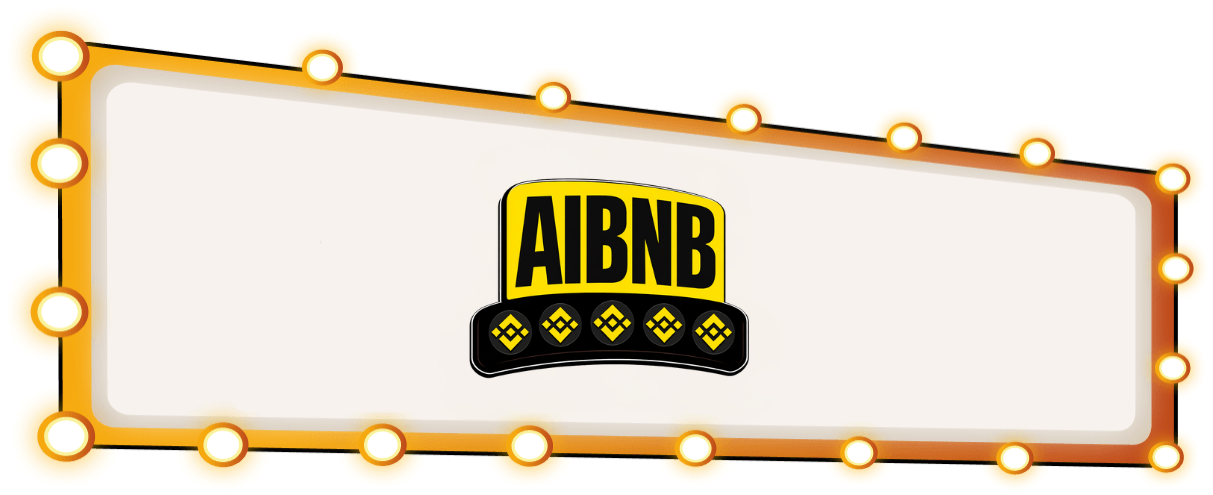
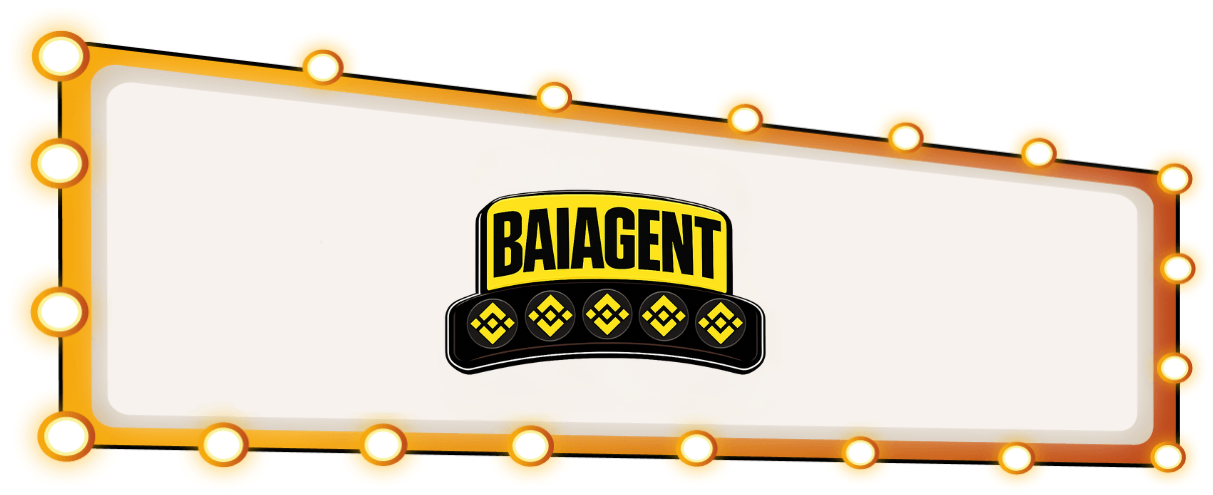
update

diff --git a/index.html b/index.html
@@ -1,7 +1,7 @@
 <!DOCTYPE html>
 <html lang="en">
   <head>
-    <title>AI BNB | $AIBNB</title>
+    <title>Binance AI Agent | $BAIAGENT</title>
     <meta charset="UTF-8" />
     <meta name="format-detection" content="telephone=no" />
     <style>
@@ -130,47 +130,47 @@
         <div class="run-row-text">
           <div class="run-row-text__line">
             <div class="run-row-text__row">
-              <p class="run-row-text__text">Welcome to the AIBNB</p>
+              <p class="run-row-text__text">Welcome to the BAIAGENT</p>
               <p class="run-row-text__text run-row-text__text--white">
-                Welcome to the AIBNB
+                Welcome to the BAIAGENT
               </p>
-              <p class="run-row-text__text">Welcome to the AIBNB</p>
+              <p class="run-row-text__text">Welcome to the BAIAGENT</p>
               <p class="run-row-text__text run-row-text__text--white">
-                Welcome to the AIBNB
+                Welcome to the BAIAGENT
               </p>
-              <p class="run-row-text__text">Welcome to the AIBNB</p>
+              <p class="run-row-text__text">Welcome to the BAIAGENT</p>
               <p class="run-row-text__text run-row-text__text--white">
-                Welcome to the AIBNB
+                Welcome to the BAIAGENT
               </p>
-              <p class="run-row-text__text">Welcome to the AIBNB</p>
+              <p class="run-row-text__text">Welcome to the BAIAGENT</p>
               <p class="run-row-text__text run-row-text__text--white">
-                Welcome to the AIBNB
+                Welcome to the BAIAGENT
               </p>
-              <p class="run-row-text__text">Welcome to the AIBNB</p>
+              <p class="run-row-text__text">Welcome to the BAIAGENT</p>
               <p class="run-row-text__text run-row-text__text--white">
-                Welcome to the AIBNB
+                Welcome to the BAIAGENT
               </p>
             </div>
             <div class="run-row-text__row">
-              <p class="run-row-text__text">Welcome to the AIBNB</p>
+              <p class="run-row-text__text">Welcome to the BAIAGENT</p>
               <p class="run-row-text__text run-row-text__text--white">
-                Welcome to the AIBNB
+                Welcome to the BAIAGENT
               </p>
-              <p class="run-row-text__text">Welcome to the AIBNB</p>
+              <p class="run-row-text__text">Welcome to the BAIAGENT</p>
               <p class="run-row-text__text run-row-text__text--white">
-                Welcome to the AIBNB
+                Welcome to the BAIAGENT
               </p>
-              <p class="run-row-text__text">Welcome to the AIBNB</p>
+              <p class="run-row-text__text">Welcome to the BAIAGENT</p>
               <p class="run-row-text__text run-row-text__text--white">
-                Welcome to the AIBNB
+                Welcome to the BAIAGENT
               </p>
-              <p class="run-row-text__text">Welcome to the AIBNB</p>
+              <p class="run-row-text__text">Welcome to the BAIAGENT</p>
               <p class="run-row-text__text run-row-text__text--white">
-                Welcome to the AIBNB
+                Welcome to the BAIAGENT
               </p>
-              <p class="run-row-text__text">Welcome to the AIBNB</p>
+              <p class="run-row-text__text">Welcome to the BAIAGENT</p>
               <p class="run-row-text__text run-row-text__text--white">
-                Welcome to the AIBNB
+                Welcome to the BAIAGENT
               </p>
             </div>
           </div>
@@ -238,7 +238,7 @@
               <div class="join__bg-title">
                 <img src="img/join/title-bg.png" alt="Image" />
               </div>
-              <h2 class="join__title title-block">Join our AI BNB voyage</h2>
+              <h2 class="join__title title-block">Join our BAIAGENT voyage</h2>
               <div class="join__label">VIP ONLY</div>
             </div>
             <div
@@ -275,11 +275,11 @@
                 data-watch-once
                 class="join__bot-title title-block"
               >
-                About AI BNB
+                About Binance AI Agent
               </h3>
               <div class="join__text">
                 <p data-watch-threshold="0.5" data-watch data-watch-once>
-                  AI BNB ($AIBNB) is a community-driven digital asset forged with the spirit of strength, value, and long-term growth of Aster robot, Binance yellow robot and BNB AI Intern robot . Inspired by many tweets                                                                                           and the energy of innovation, it brings together a global community seeking stability while exploring limitless possibilities on Binance with CZ.
+                  Binance AI Agent ($BAIAGENT) is a community-driven digital asset forged with the spirit of strength, value, and long-term growth of Aster robot, Binance yellow robot and BNB AI Intern robot . Inspired by many tweets                                                                                           and the energy of innovation, it brings together a global community seeking stability while exploring limitless possibilities on Binance with CZ.
                 </p>
               </div>
             </div>
@@ -632,7 +632,7 @@
               </h2>
               <div class="journey__text">
                 <p data-watch-threshold="0.4" data-watch data-watch-once>
-                  Connect with like-minded individual like AI BNB, the meme revolution.
+                  Connect with like-minded individual like Binance AI Agent, the meme revolution.
                 </p>
               </div>
               <a
